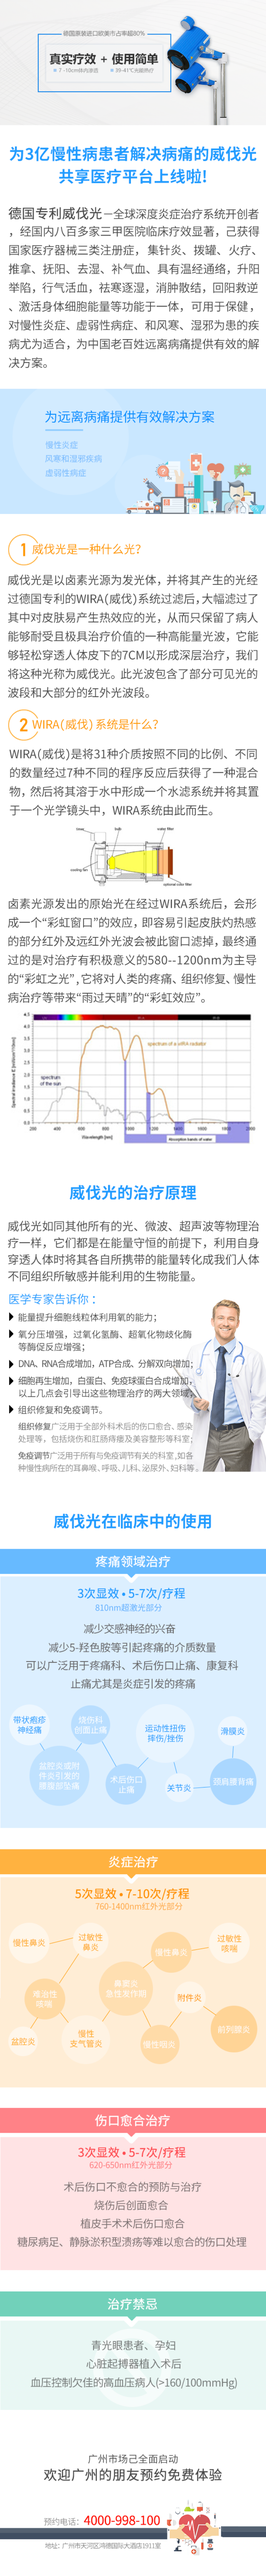
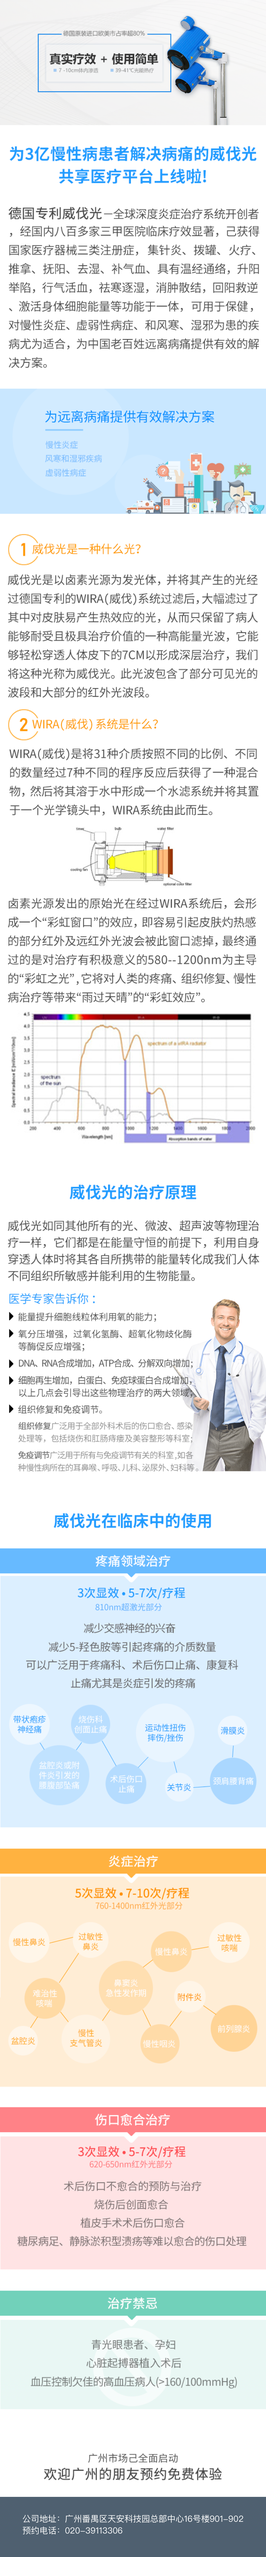
修改产品指引

Changed region(s): [[0.0, 0.0, 1.0, 1.0]]

diff --git a/src/views/share/pintroduce.vue b/src/views/share/pintroduce.vue
@@ -1,7 +1,21 @@
 <template>
 	<div class="producte">
 		<settingHeader :title="title"></settingHeader>
-		<img src="../../assets/images/share/producted.png" alt="">
+		<!-- <img src="../../assets/images/share/producted.png" alt=""> -->
+		<div class="tab">
+			<ul class="clearfix">
+				<li v-for="(item,index) in tabsParam" @click="toggleTabs(index)" :class="{current:index == nowIndex}"><span>{{item}}</span></li>
+				<!-- <li><span>治疗指导</span></li> -->
+			</ul>
+		</div>
+
+		<div class="pro" v-show="nowIndex==0">
+			<img src="../../assets/images/share/producted.png" alt="">
+		</div>
+		<div class="zhiliao" v-show="nowIndex==1">
+			<img src="../../assets/images/share/treatment.png" alt="">
+		</div>
+
 	</div>
 </template>
 
@@ -12,7 +26,9 @@
 	export default {
 		data() {
 			return {
-				title:"威伐光介绍",
+				title:"产品指引",
+				tabsParam:['产品介绍','治疗指导'],
+				nowIndex:0,//默认第一个tab为选中状态
 			}
 				
 		},
@@ -29,8 +45,10 @@
 			
 		},
 		methods:{
-			 
-			
+			toggleTabs(index){
+				// alert(index)
+				this.nowIndex=index;
+			}
 		}
 	}
 </script>
@@ -39,8 +57,40 @@
 	@import url('../../../static/css/global');
 	.producte{
 		width: 100%;
-		img{
+		.tab{
+			height: .88rem;
+			box-sizing: border-box;
+			li{
+				float: left;
+				height: .88rem;
+				line-height: .7rem;
+				width: 45%;
+				text-align: center;
+				span{
+					display: inline-block;
+					color: #90A2C7;
+					font-size: .32rem;
+				}
+			}
+			li:first-child{
+				text-align: right;
+				padding-right: .3rem;
+			}
+			li:last-child{
+				text-align: left;
+				padding-left: .3rem;
+			}
+			li.current span{
+				color: #336FFF;
+				display: inline-block;
+				border-bottom: 1px solid #336FFF;
+			}
+		}
+		.pro,.zhiliao{
 			width: 100%;
+			img{
+				width: 100%;
+			}
 		}
 	}
 </style>

diff --git a/src/views/share/index.vue b/src/views/share/index.vue
@@ -21,13 +21,13 @@
 					<a href="javascript:;">
 						<li @click="showProduct">
 							<img src="../../assets/images/share/product.png">
-							<p>产品介绍</p>
+							<p>产品指引</p>
 						</li>
 					</a>
 					<a href="javascript:;">
 						<li @click="treatment">
-							<img src="../../assets/images/share/question.png">
-							<p>治疗指导</p>
+							<img src="../../assets/images/share/order.png">
+							<p>我的订单</p>
 						</li>
 					</a>
 					<a href="javascript:;">
@@ -269,7 +269,8 @@
 				this.$router.push('/share/join')
 			},
 			treatment(){
-				this.$router.push('/share/treatment')
+				// this.$router.push('/share/treatment')
+				this.$router.push('/shop/my_order')
 			}
 		}
 	}

diff --git a/src/views/share/usetime.vue b/src/views/share/usetime.vue
@@ -237,11 +237,17 @@
                 },998);
 			},
 			countDown(overtime){//当前设备的倒计时
-				
+
 				var _this=this;
 				_this.setTime(overtime);
 
 				_this.clearTime = setInterval(function(){
+
+					if(overtime==0){
+						useend();
+						return;
+					}
+
 						--overtime;
 						_this.setTime(overtime);
 						
@@ -257,6 +263,9 @@
                 sec=sec > 9 ? sec : '0' + sec;
 
                 this.remainTime = hour + ":" + min + ":" + sec;
+			},
+			useend(){
+				clearInterval(this.clearTime);
 			}
 
 			

diff --git a/src/router/index.js b/src/router/index.js
@@ -2,11 +2,11 @@ import Vue from 'vue'
 import Router from 'vue-router'
 import shopModule from '@/router/modules/shop'
 import memberModule from '@/router/modules/member'
-import inygl from '@/router/modules/inygl'
+import share from '@/router/modules/share'
 import draw from '@/router/modules/draw'
 
 Vue.use(Router)
-var all=shopModule.concat(memberModule,inygl,draw);
+var all=shopModule.concat(memberModule,share,draw);
 
 export default new Router({
   routes: all

diff --git a/src/router/modules/share.js b/src/router/modules/share.js
@@ -12,7 +12,7 @@ import OrderEval from '@/views/share/orderEval'
 import UseTime from '@/views/share/usetime'
 
 
-const inygl =[
+const share =[
 	{
 		path:'/share',
 		name:'shareIndex',
@@ -75,4 +75,4 @@ const inygl =[
 	}
 ]
 
-export default inygl
+export default share
